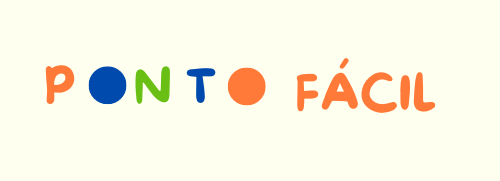
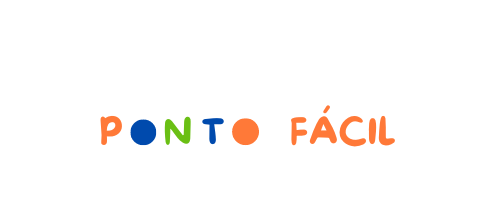
estilização da imagem na tela login

Changed region(s): [[0.09, 0.3591, 0.54, 0.7182], [0.57, 0.3315, 0.87, 0.7182]]

diff --git a/src/screens/Login.js b/src/screens/Login.js
@@ -7,7 +7,7 @@ import {
   View,
   Text,
 } from "react-native";
-import backgroundImage from "../../assets/images/logi.png";
+import backgroundImage from "../../assets/images/login.png";
 import { Image } from "react-native";
 
 // Importando os recursos de autenticação
@@ -53,8 +53,7 @@ export default function Login({ navigation }) {
     <>
       <View style={estilos.container}>
         <View style={estilos.estiloImagem}>
-
-      <Image source={backgroundImage} style={{ ...estilos.background }} />
+          <Image source={backgroundImage} style={{ ...estilos.background }} />
         </View>
         <View style={estilos.formulario}>
           <TextInput
@@ -94,16 +93,10 @@ const estilos = StyleSheet.create({
     alignContent: "center",
     alignItems: "center",
     width: "auto",
-    height: "30%",
-    marginTop: 60,
+    borderBottomLeftRadius: 40,
+    borderBottomRightRadius: 40,
   },
-  estiloImagem: {
-    backgroundColor: "white",
-    height: "26%",
-    borderBottomLeftRadius: 30,
-    borderBottomRightRadius: 30,
-  
-  },
+
   formulario: {
     padding: 23,
     paddingTop: 70,
